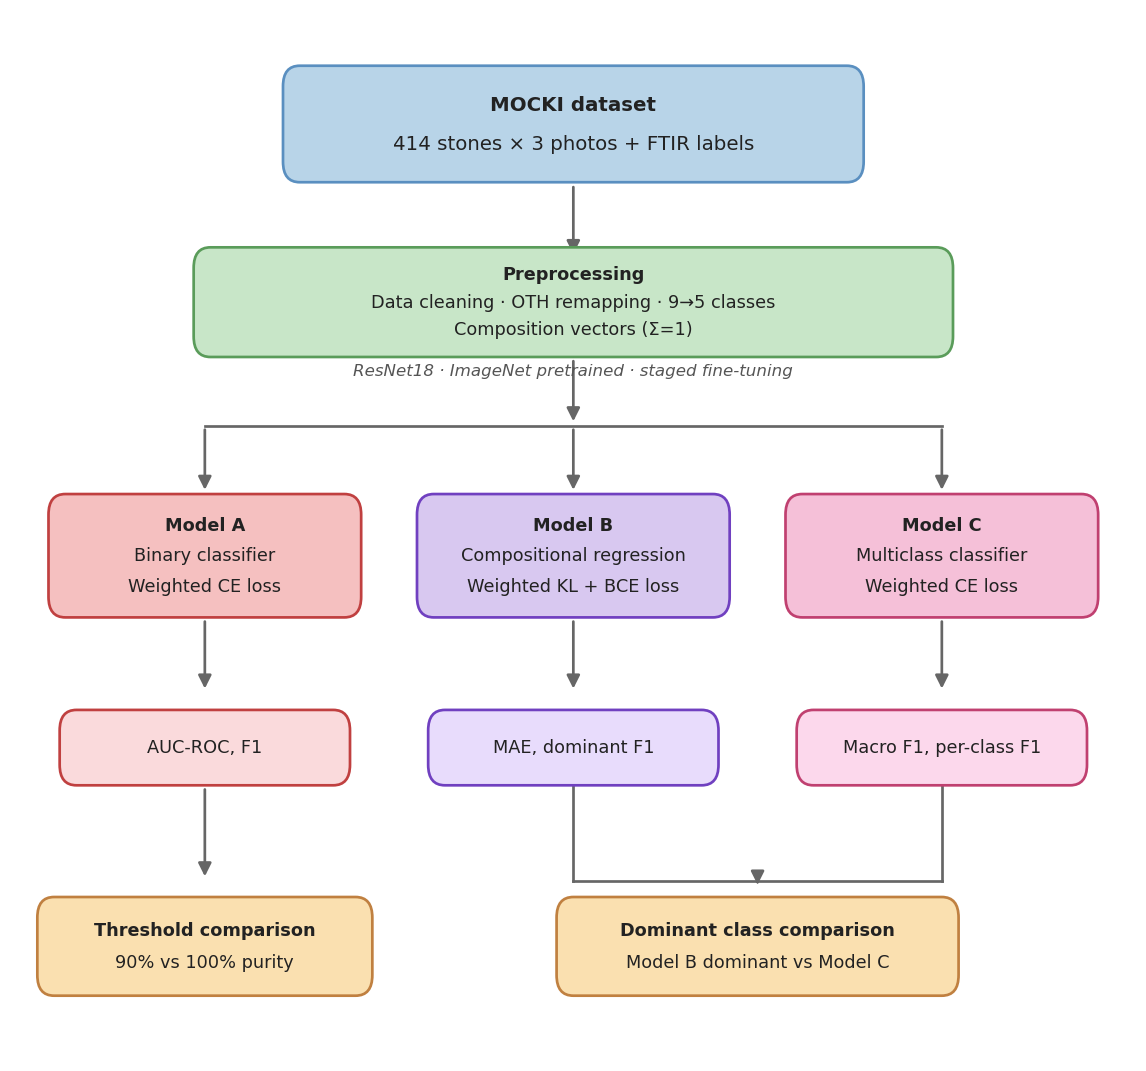
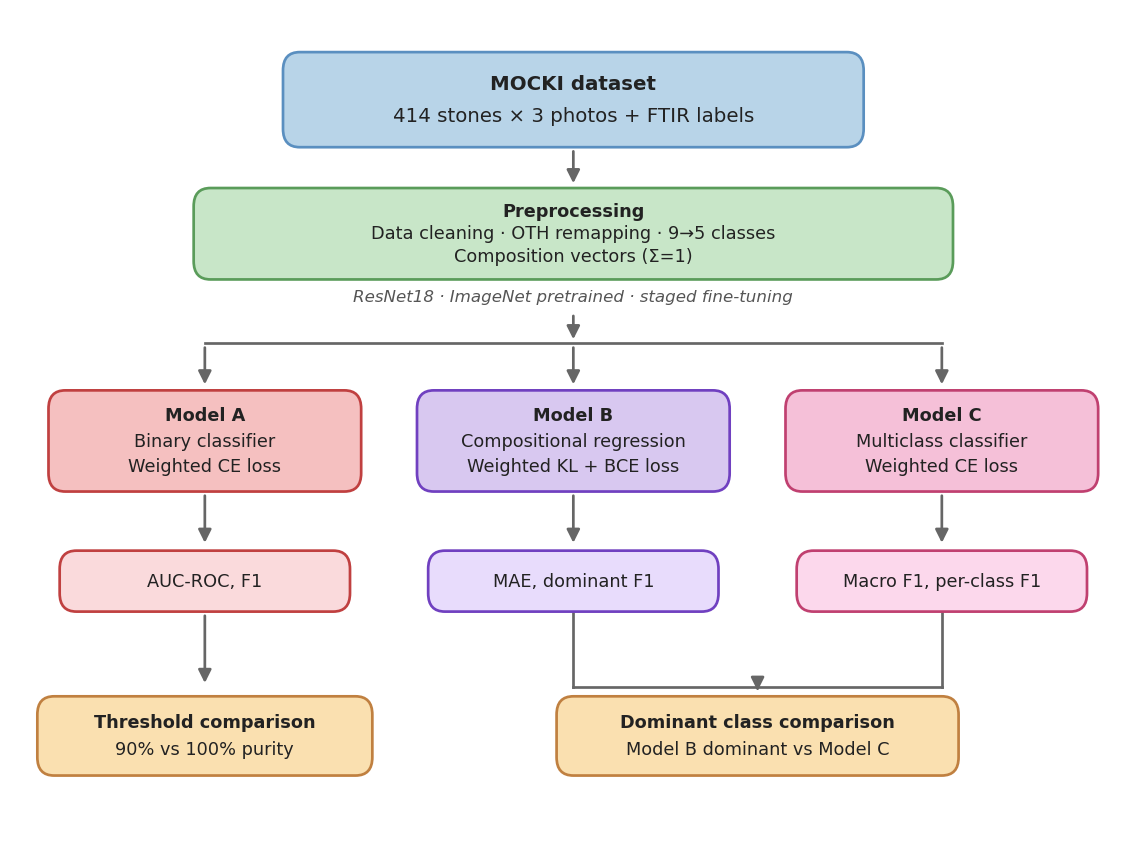
Compact workflow figure vertically (shorter arrows, tighter spacing)

diff --git a/generate_workflow.py b/generate_workflow.py
@@ -57,45 +57,43 @@ def arr(ax, x0, y0, x1, y1):
 
 
 def main():
-    fig, ax = plt.subplots(figsize=(7.5, 7.0))
+    fig, ax = plt.subplots(figsize=(7.5, 5.5))
     ax.set_xlim(0, 1)
-    ax.set_ylim(0.24, 1.0)
+    ax.set_ylim(0.33, 1.0)
     ax.axis("off")
     fig.patch.set_facecolor("white")
 
     # ── MOCKI dataset ────────────────────────────────────────────────────────
-    rounded_box(ax, 0.50, 0.920, 0.52, 0.085,
+    rounded_box(ax, 0.50, 0.930, 0.52, 0.078,
                 ["MOCKI dataset",
                  "414 stones × 3 photos + FTIR labels"],
                 *C_DATASET, fontsize=9.5)
-    arr(ax, 0.50, 0.877, 0.50, 0.822)
+    arr(ax, 0.50, 0.891, 0.50, 0.858)          # short gap
 
     # ── Preprocessing ────────────────────────────────────────────────────────
-    rounded_box(ax, 0.50, 0.790, 0.68, 0.080,
+    rounded_box(ax, 0.50, 0.820, 0.68, 0.075,
                 ["Preprocessing",
                  "Data cleaning · OTH remapping · 9→5 classes",
                  "Composition vectors (Σ=1)"],
                 *C_PREP, fontsize=8.5)
 
     # ResNet18 annotation (italic, small)
-    ax.text(0.50, 0.740, "ResNet18 · ImageNet pretrained · staged fine-tuning",
+    ax.text(0.50, 0.768, "ResNet18 · ImageNet pretrained · staged fine-tuning",
             ha="center", va="center", fontsize=8, color="#555555",
             fontfamily="DejaVu Sans", style="italic", zorder=4)
 
-    # Trunk down to branch point
-    arr(ax, 0.50, 0.750, 0.50, 0.700)
+    # Trunk down to branch point (starts below italic text)
+    arr(ax, 0.50, 0.756, 0.50, 0.730)          # short gap
 
     # ── Branch arrows to three models ────────────────────────────────────────
-    branch_y = 0.700
-    # Horizontal line
+    branch_y = 0.730
     ax.plot([0.17, 0.83], [branch_y, branch_y], color=C_ARROW, lw=1.3, zorder=2)
-    # Down to each model
     for x in [0.17, 0.50, 0.83]:
-        arr(ax, x, branch_y, x, 0.650)
+        arr(ax, x, branch_y, x, 0.693)          # short drop to models
 
     # ── Model boxes ──────────────────────────────────────────────────────────
-    model_y  = 0.605
-    model_h  = 0.090
+    model_y  = 0.650
+    model_h  = 0.083
     model_w  = 0.28
 
     rounded_box(ax, 0.17, model_y, model_w, model_h,
@@ -111,12 +109,12 @@ def main():
                 *C_C, fontsize=8.5)
 
     # ── Arrows to metric boxes ────────────────────────────────────────────────
-    metric_y = 0.465
+    metric_y = 0.535
     for x in [0.17, 0.50, 0.83]:
-        arr(ax, x, model_y - model_h / 2, x, metric_y + 0.040)
+        arr(ax, x, model_y - model_h / 2, x, metric_y + 0.028)
 
     # ── Metric boxes ─────────────────────────────────────────────────────────
-    metric_h = 0.055
+    metric_h = 0.050
     metric_w = 0.26
 
     rounded_box(ax, 0.17, metric_y, metric_w, metric_h,
@@ -129,19 +127,19 @@ def main():
                 ["Macro F1, per-class F1"], *C_METRIC_C, fontsize=8.5, bold_first=False)
 
     # ── Arrows to comparison boxes ────────────────────────────────────────────
-    compare_y = 0.320
+    compare_y = 0.408
     # Model A → Threshold comparison
-    arr(ax, 0.17, metric_y - metric_h / 2, 0.17, compare_y + 0.048)
+    arr(ax, 0.17, metric_y - metric_h / 2, 0.17, compare_y + 0.040)
     # Model B + C → Dominant class comparison
     for x in [0.50, 0.83]:
-        ax.plot([x, x], [metric_y - metric_h / 2, compare_y + 0.048],
+        ax.plot([x, x], [metric_y - metric_h / 2, compare_y + 0.040],
                 color=C_ARROW, lw=1.3, zorder=2)
-    ax.plot([0.50, 0.83], [compare_y + 0.048, compare_y + 0.048],
+    ax.plot([0.50, 0.83], [compare_y + 0.040, compare_y + 0.040],
             color=C_ARROW, lw=1.3, zorder=2)
-    arr(ax, 0.665, compare_y + 0.048, 0.665, compare_y + 0.045)
+    arr(ax, 0.665, compare_y + 0.040, 0.665, compare_y + 0.037)
 
     # ── Comparison boxes ──────────────────────────────────────────────────────
-    cmp_h = 0.072
+    cmp_h = 0.065
     cmp_w = 0.30
 
     rounded_box(ax, 0.17, compare_y, cmp_w, cmp_h,